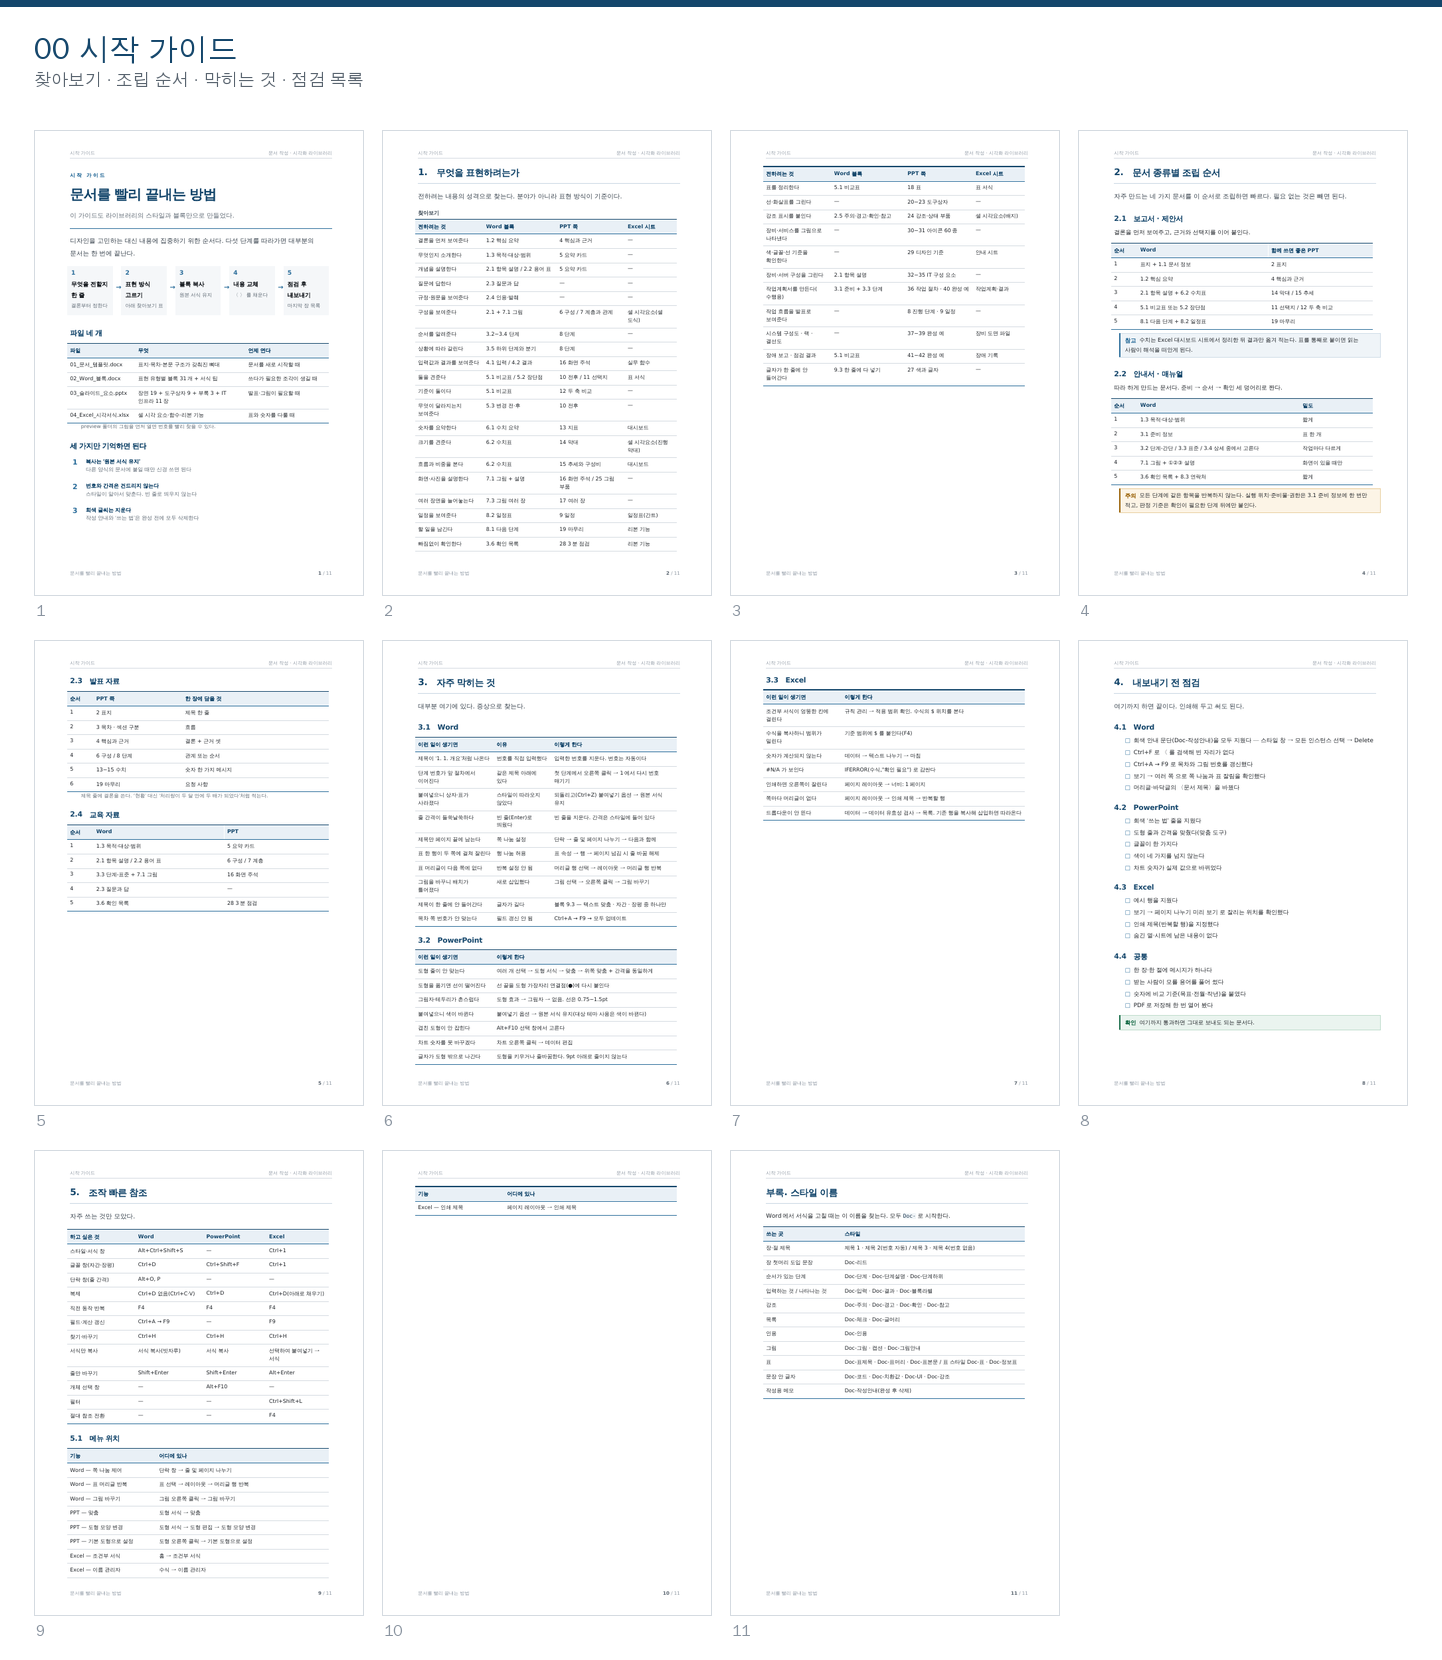
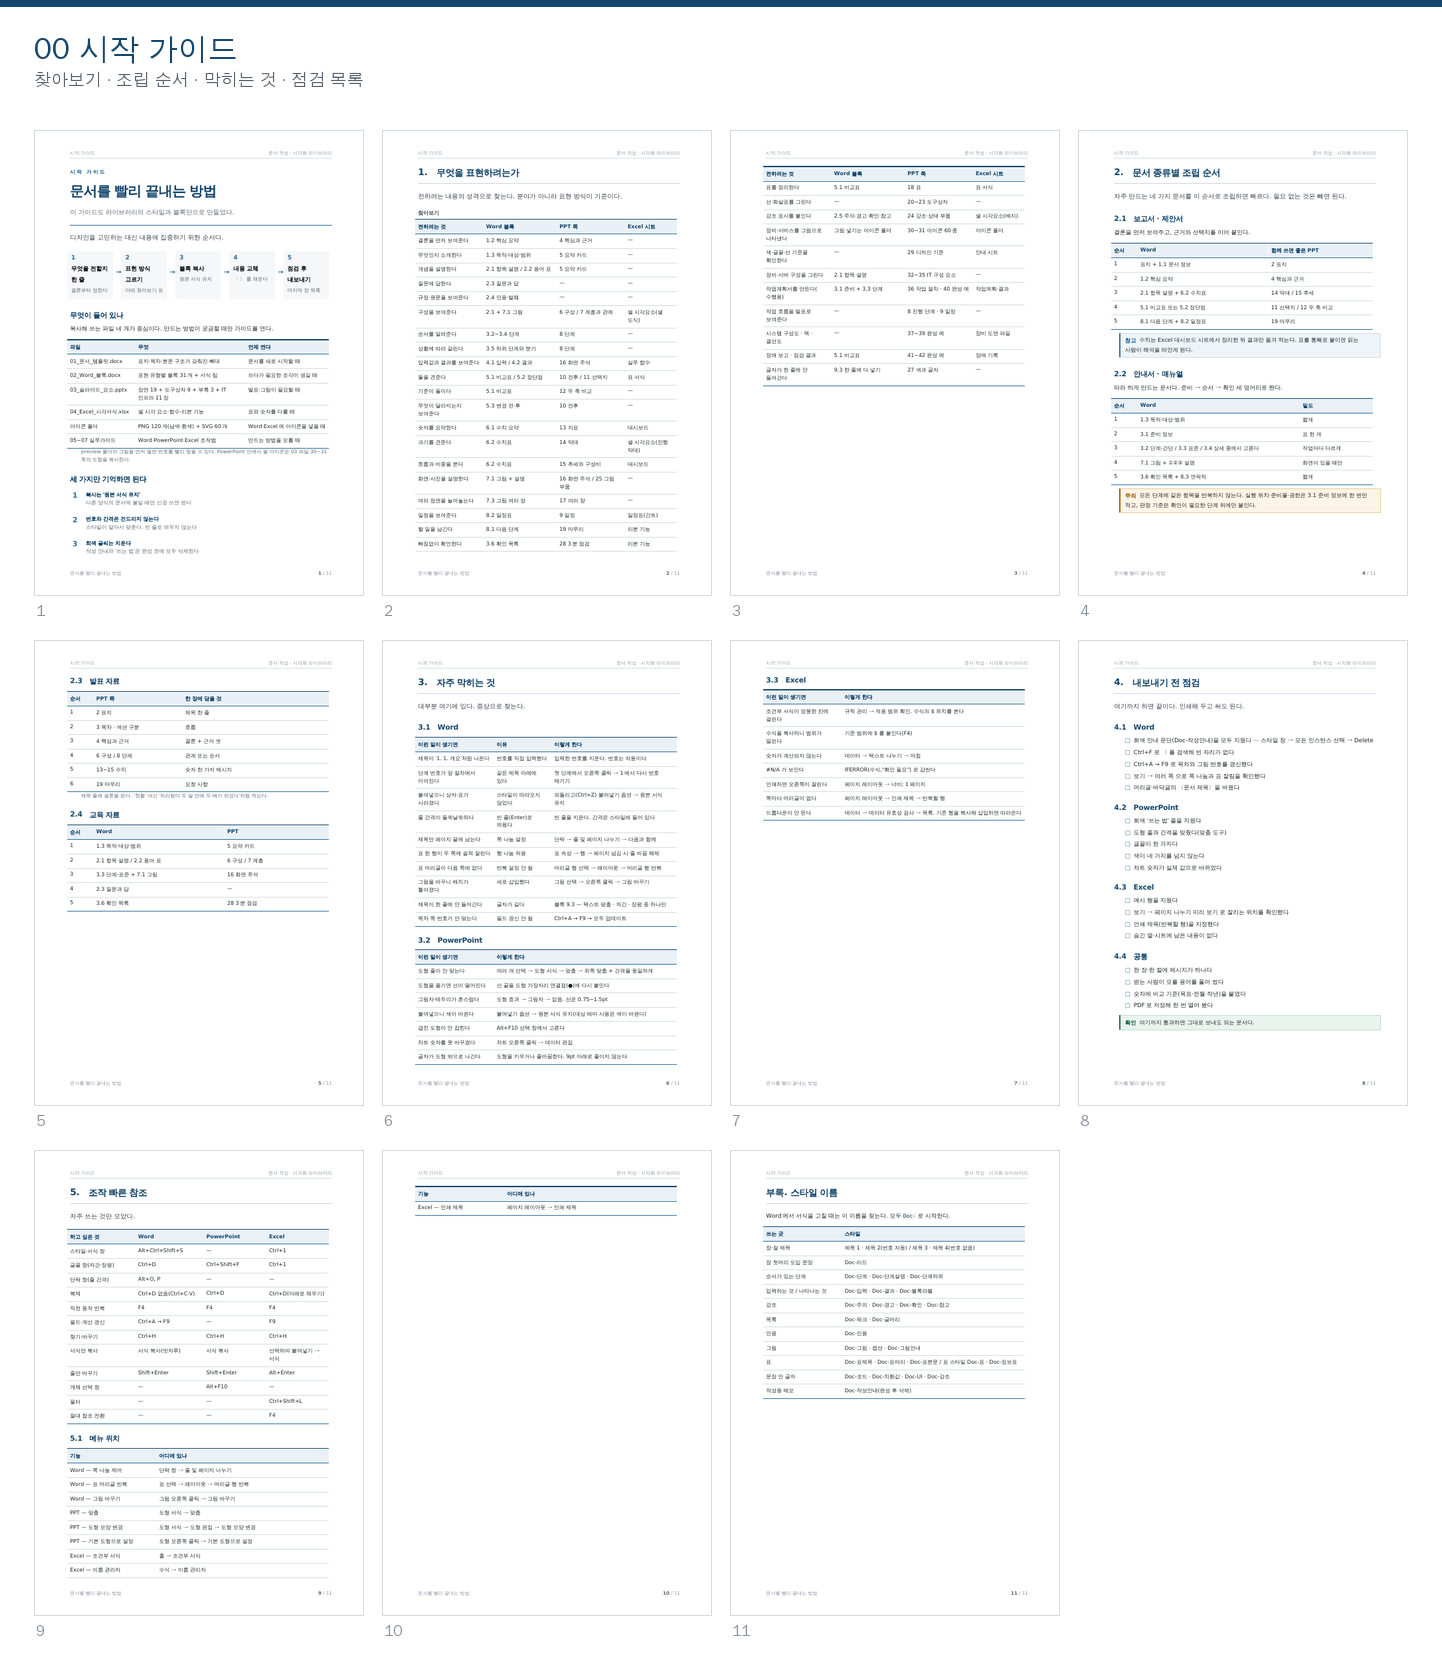
시작 가이드에 아이콘 폴더와 실무가이드 3종 안내 추가
00_시작가이드가 01~04 네 파일만 설명하고 있어서, 아이콘 폴더(PNG 120 ·
SVG 60)와 05~07 실무가이드를 열어 본 적 없는 사용자가 그 존재를 알 수
없었다. 파일 표에 두 줄을 더하고, PowerPoint 안에서는 폴더가 아니라 03
파일 30~31쪽 도형을 쓰라는 구분을 명시했다.

찾아보기의 아이콘 행도 Word/Excel 경로를 포함하도록 고쳤고, 앞머리
여백과 리드 문장을 줄여 1장이 한 쪽에 들어가게 했다(11쪽 유지).

Claude-Session: https://claude.ai/code/session_01S1CnqaVnr8wkD9X1iHRr2i

Changed region(s): [[0.0312, 0.0922, 0.2184, 0.338]]

diff --git a/tools/build_guide.py b/tools/build_guide.py
@@ -41,27 +41,30 @@ def build():
     doc = L.new_document()
     b = []
     # ── 첫 장 ──────────────────────────────────────────────────────────────
-    b += [spacer(10),
+    b += [spacer(4),
           P([R("시작 가이드", sz=9, b=True, color=D.PRIMARY_MID, track=60)], sp=spacing(after=pt(6))),
           P([R("문서를 빨리 끝내는 방법")], style="Title"),
           P([R("이 가이드도 라이브러리의 스타일과 블록만으로 만들었다.")], style="Subtitle"),
           rule(D.PRIMARY_MID, 8, before=10, after=14),
-          lead("디자인을 고민하는 대신 내용에 집중하기 위한 순서다. "
-               "다섯 단계를 따라가면 대부분의 문서는 한 번에 끝난다."),
+          lead("디자인을 고민하는 대신 내용에 집중하기 위한 순서다."),
           flow([("1", "무엇을 전할지 한 줄", "결론부터 정한다"),
                 ("2", "표현 방식 고르기", "아래 찾아보기 표"),
                 ("3", "블록 복사", "원본 서식 유지"),
                 ("4", "내용 교체", "〈 〉 를 채운다"),
                 ("5", "점검 후 내보내기", "마지막 장 목록")]),
-          spacer(6),
-          h2("파일 네 개", num=False),
+          spacer(2),
+          h2("무엇이 들어 있나", num=False),
+          para("복사해 쓰는 파일 네 개가 중심이다. 만드는 방법이 궁금할 때만 가이드를 연다."),
           data_table(["파일", "무엇", "언제 연다"],
                      [["01_문서_템플릿.docx", "표지·목차·본문 구조가 갖춰진 뼈대", "문서를 새로 시작할 때"],
                       ["02_Word_블록.docx", "표현 유형별 블록 31개 + 서식 팁", "쓰다가 필요한 조각이 생길 때"],
                       ["03_슬라이드_요소.pptx", "장면 19 + 도구상자 9 + 부록 3 + IT 인프라 11장", "발표·그림이 필요할 때"],
-                      ["04_Excel_시각서식.xlsx", "셀 시각 요소·함수·리본 기능", "표와 숫자를 다룰 때"]],
+                      ["04_Excel_시각서식.xlsx", "셀 시각 요소·함수·리본 기능", "표와 숫자를 다룰 때"],
+                      ["아이콘 폴더", "PNG 120개(남색·흰색) + SVG 60개", "Word·Excel에 아이콘을 넣을 때"],
+                      ["05~07 실무가이드", "Word·PowerPoint·Excel 조작법", "만드는 방법을 모를 때"]],
                      [26, 42, 32]),
-          small("preview 폴더의 그림을 먼저 열면 번호를 빨리 찾을 수 있다."),
+          small("preview 폴더의 그림을 먼저 열면 번호를 빨리 찾을 수 있다. "
+                "PowerPoint 안에서 쓸 아이콘은 03 파일 30~31쪽의 도형을 복사한다."),
           h2("세 가지만 기억하면 된다", num=False),
           summary_points([
               ("복사는 ‘원본 서식 유지’", "다른 양식의 문서에 붙일 때만 신경 쓰면 된다"),
@@ -95,7 +98,7 @@ def build():
                       ["표를 정리한다", "5.1 비교표", "18 표", "표 서식"],
                       ["선·화살표를 그린다", "—", "20~23 도구상자", "—"],
                       ["강조 표시를 붙인다", "2.5 주의·경고·확인·참고", "24 강조·상태 부품", "셀 시각요소(배지)"],
-                      ["장비·서비스를 그림으로 나타낸다", "—", "30~31 아이콘 60종", "—"],
+                      ["장비·서비스를 그림으로 나타낸다", "그림 넣기는 아이콘 폴더", "30~31 아이콘 60종", "아이콘 폴더"],
                       ["색·글꼴·선 기준을 확인한다", "—", "29 디자인 기준", "안내 시트"],
                       ["장비·서버 구성을 그린다", "2.1 항목 설명", "32~35 IT 구성 요소", "—"],
                       ["작업계획서를 만든다(수행용)", "3.1 준비 + 3.3 단계", "36 작업 절차 · 40 완성 예", "작업계획·결과"],
